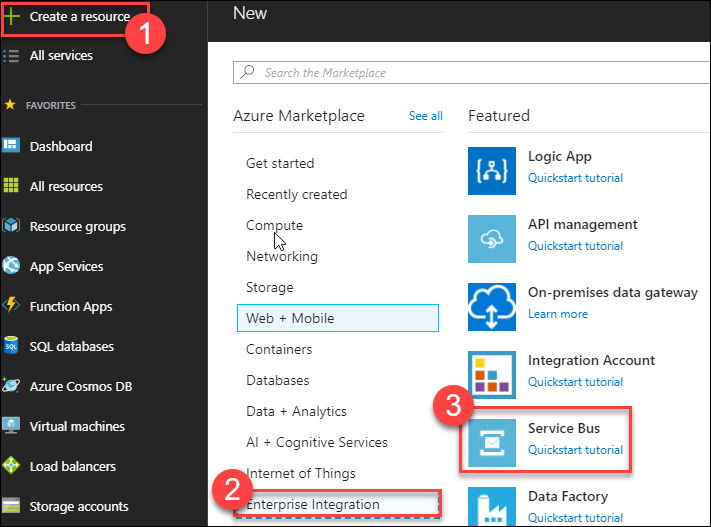
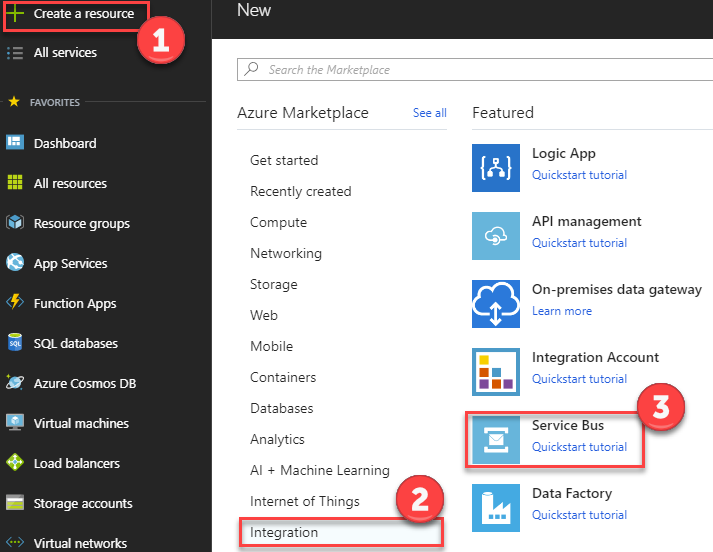
Changes to HOL step by step
Changed the Date to August and changed 7 images in the HOL step by step because of changes to the Azure Portal UX

diff --git a/Hands-on lab/HOL step-by-step - Intelligent analytics.md b/Hands-on lab/HOL step-by-step - Intelligent analytics.md
@@ -9,7 +9,7 @@ Hands-on lab step-by-step
 </div>
 
 <div class="MCWHeader3">
-June 2018
+August 2018
 </div>
 
 Information in this document, including URL and other Internet Web site references, is subject to change without notice. Unless otherwise noted, the example companies, organizations, products, domain names, e-mail addresses, logos, people, places, and events depicted herein are fictitious, and no association with any real company, organization, product, domain name, e-mail address, logo, person, place or event is intended or should be inferred. Complying with all applicable copyright laws is the responsibility of the user. Without limiting the rights under copyright, no part of this document may be reproduced, stored in or introduced into a retrieval system, or transmitted in any form or by any means (electronic, mechanical, photocopying, recording, or otherwise), or for any purpose, without the express written permission of Microsoft Corporation.
@@ -199,9 +199,9 @@ In these steps, you will provision a Web App and an API App within a single App 
 
 1. Sign in to the Azure Portal (<https://portal.azure.com>)
 
-2. Select +Create a resource, then select Web + Mobile, and finally select Web App
+2. Select +Create a resource, then select Web and finally select Web App
 
-    ![Under the Azure Marketplace In the Azure portal, New pane, Web + Mobile is selected. Under Featured, Web App (Quickstart tutorial) is circled.](media/image21.png 'Azure Markeplace create a resource')
+    ![Under the Azure Marketplace In the Azure portal, New pane, Web is selected. Under Featured, Web App (Quickstart tutorial) is circled.](media/image21.png 'Azure Markeplace create a resource')
 
 3. On the Create Web App blade, enter the following:
 
@@ -239,7 +239,7 @@ In these steps, you will provision a Web App and an API App within a single App 
 
 8. Now, it's time to create an API App
 
-9. Select **+Create a resource, Web + Mobile, API App** (Sometimes API App does not appear on the list. If that happens, simply click + New and search for API App.)
+9. Select **+Create a resource, Web, API App** (Sometimes API App does not appear on the list. If that happens, simply click + New and search for API App.)
 
     ![The Api App selection is shown](media/image29.png 'API App')
 
@@ -295,7 +295,7 @@ In this section, you will provision a Service Bus Namespace and Service Bus Topi
 
 1. Continuing in the [Azure portal](https://portal.azure.com), select **+Create a resource**
 
-2. Select **Enterprise Integration**, then select **Service Bus**
+2. Select **Integration**, then select **Service Bus**
 
     ![The Azure Portal New blade has Enterprise Integration, and Service Bus circled.](media/image31.png 'New blade')
 
@@ -470,7 +470,7 @@ In this section, you will provision an Azure Cosmos DB account, a DocumentDB Dat
 
 In this section, you will create an Azure Search instance.
 
-1. Select **+Create a resource, Web + Mobile**, the select **Azure Search**
+1. Select **+Create a resource, Web**, the select **Azure Search**
 
     ![In the Azure portal, New pane, Web + Mobile and Azure Search (Learn More) are circled.](media/image46.png 'Azure Search create a reource')
 
@@ -784,7 +784,7 @@ The EventProcessorHost requires an Azure Storage account that it will use to man
 
 To provision access to the Text Analytics API (which provides sentiment analysis features), you will need to provision a Cognitive Services account.
 
-1. In the [Azure portal](https://portal.azure.com), select +Create a resource, then AI + Cognitive Services, Text Analytics API
+1. In the [Azure portal](https://portal.azure.com), select +Create a resource, then AI + Machine Learning, Text Analytics
 
     ![The New Azure Resource menu is shown, after clicking AI + Congnitive Services and then Text Analytics API.](media/image67.png 'New Azure resource AI + Cognitive Services')
 
